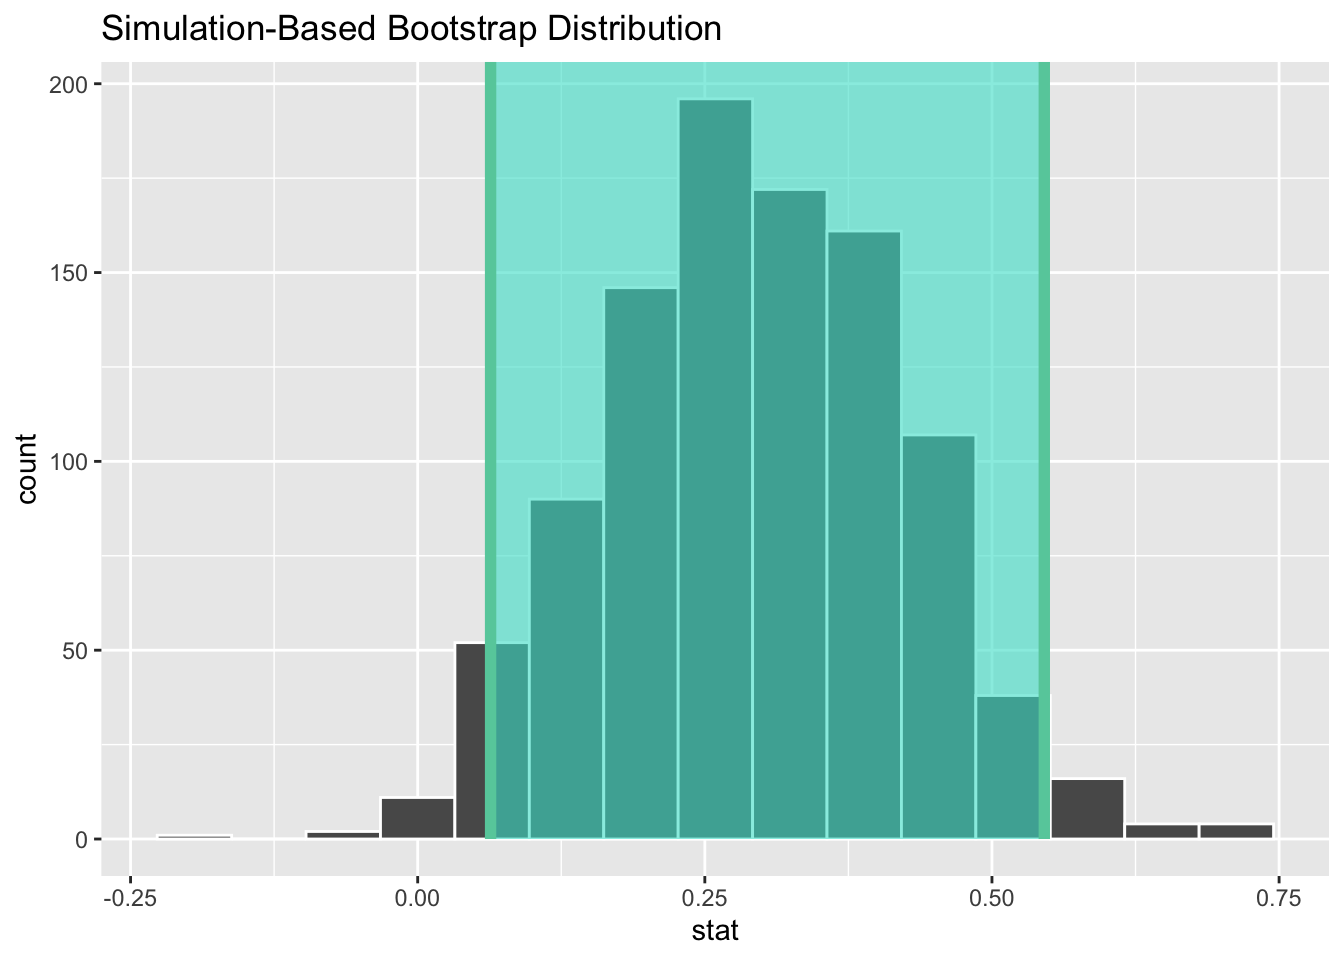
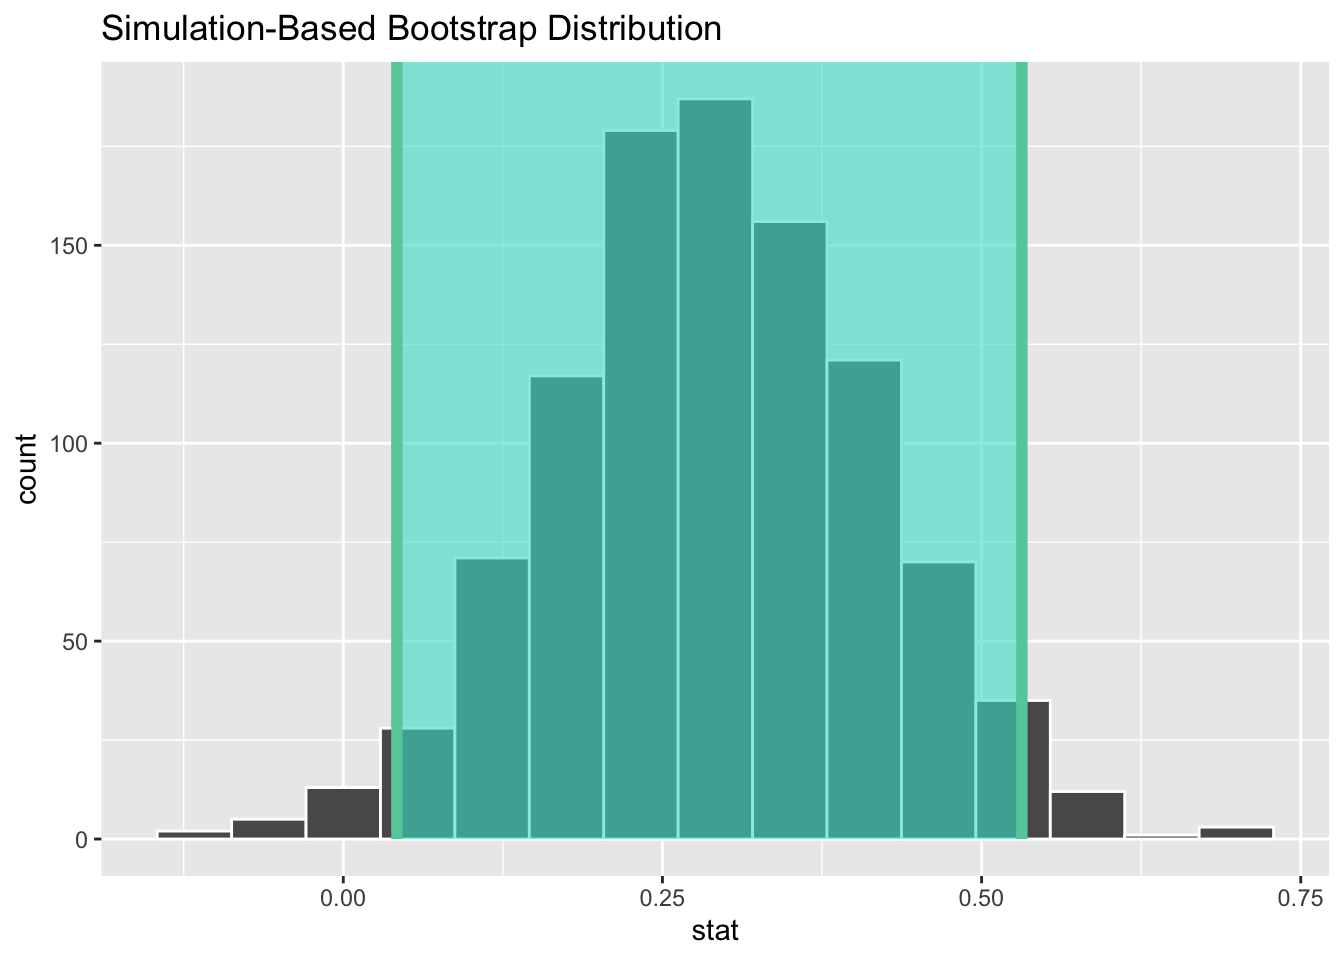
Lab 6 still

diff --git a/docs/labs/Lab_6.html b/docs/labs/Lab_6.html
@@ -487,7 +487,7 @@ Explanatory: sex (factor)
 <pre><code># A tibble: 1 × 1
   p_value
     &lt;dbl&gt;
-1   0.006</code></pre>
+1   0.003</code></pre>
 </div>
 <details open="" class="code-fold"><summary>Code</summary><div class="sourceCode" id="cb15"><pre class="downlit sourceCode r code-with-copy"><code class="sourceCode R"><span><span class="co"># The argument obs_stat is for the observed statistic.</span></span>
 <span><span class="co"># The argument direction is for the kind of hyp test (in this case right-tailed)</span></span></code><button title="Copy to Clipboard" class="code-copy-button"><i class="bi"></i></button></pre></div>
@@ -547,7 +547,7 @@ Explanatory: sex (factor)
 <pre><code># A tibble: 1 × 2
   lower_ci upper_ci
      &lt;dbl&gt;    &lt;dbl&gt;
-1   0.0635    0.546</code></pre>
+1   0.0420    0.532</code></pre>
 </div>
 </div>
 <p>Below is a way to use the built-in infer function to visualize the interval:</p>
